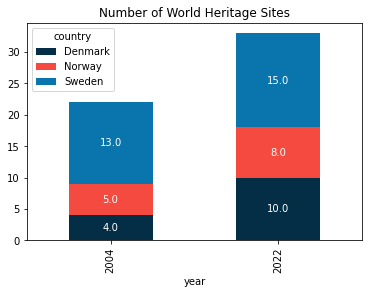
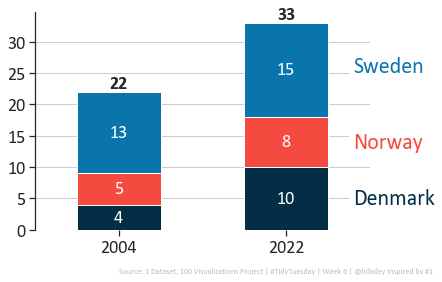
update week 06

diff --git a/2024/2024-02-06_UNESCO/2024-02-26_UNESCO.py b/2024/2024-02-06_UNESCO/2024-02-26_UNESCO.py
@@ -8,18 +8,38 @@ import os
 import numpy as np
 import matplotlib.pyplot as plt
 from plotnine import *
+from matplotlib import rc
+import seaborn
+
+rc("font", **{"family":"sans-serif", "sans-serif":["Calibri"]})
 
 heritage = pd.read_csv("https://raw.githubusercontent.com/rfordatascience/tidytuesday/master/data/2024/2024-02-06/heritage.csv")
 heritagePivot = pd.pivot_table(heritage, values = ["2004", "2022"], columns = "country")
 heritagePivot["year"] = ["2004", "2022"]
 
-plotFinal = heritagePivot.plot(x = "year", kind = "bar", stacked = True, title = "Number of World Heritage Sites",
-                               color = ["#042E45", "#F54A3F", "#0A75AD"])
+# Plot Visualization
+plotFinal = heritagePivot.plot(x = "year", kind = "bar", stacked = True,
+                               color = ["#042E45", "#F54A3F", "#0A75AD"], fontsize = 18)
+## Add Labels to Top of Each Bar
+plotFinal.bar_label(plotFinal.containers[-1], fmt = "%.0f", size = 18, weight = "bold")
+plotFinal.text(1.4, 25, "Sweden", fontsize = 22, color = "#0A75AD", bbox = {"facecolor": "white"})
+plotFinal.text(1.4, 13, "Norway", fontsize = 22, color = "#F54A3F", bbox = {"facecolor": "white"})
+plotFinal.text(1.4, 4, "Denmark", fontsize = 22, color = "#042E45", bbox = {"facecolor": "white"})
+plotFinal.spines["top"].set_visible(False)
+plotFinal.spines["right"].set_visible(False)
+plotFinal.spines["bottom"].set_visible(False)
+plotFinal.tick_params(axis = "x", rotation = 0)
+plotFinal.set(xlabel = None)
+plotFinal.get_legend().remove()
+plotFinal.yaxis.grid()
+plotFinal.text(0, -7, "Source: 1 Dataset, 100 Visualizations Project | #TidyTuesday | Week 6 | @hdailey inspired by #1",
+               wrap = False, size = 8, color = "#BCBCBC")
 
+## Add Labels to Each Box
 for i in plotFinal.containers:
-
-    # Optional: if the segment is small or 0, customize the labels
-    labels = [v.get_height() if v.get_height() > 0 else '' for v in i]
-    
+   
     # remove the labels parameter if it's not needed for customized labels
-    plotFinal.bar_label(i, labels=labels, label_type='center', color = "white")
+    plotFinal.bar_label(i, fmt = lambda x: f'{x:.0f}' if x > 0 else " ", label_type='center', color = "white", size = 18)
+    
+plotFinal
+
